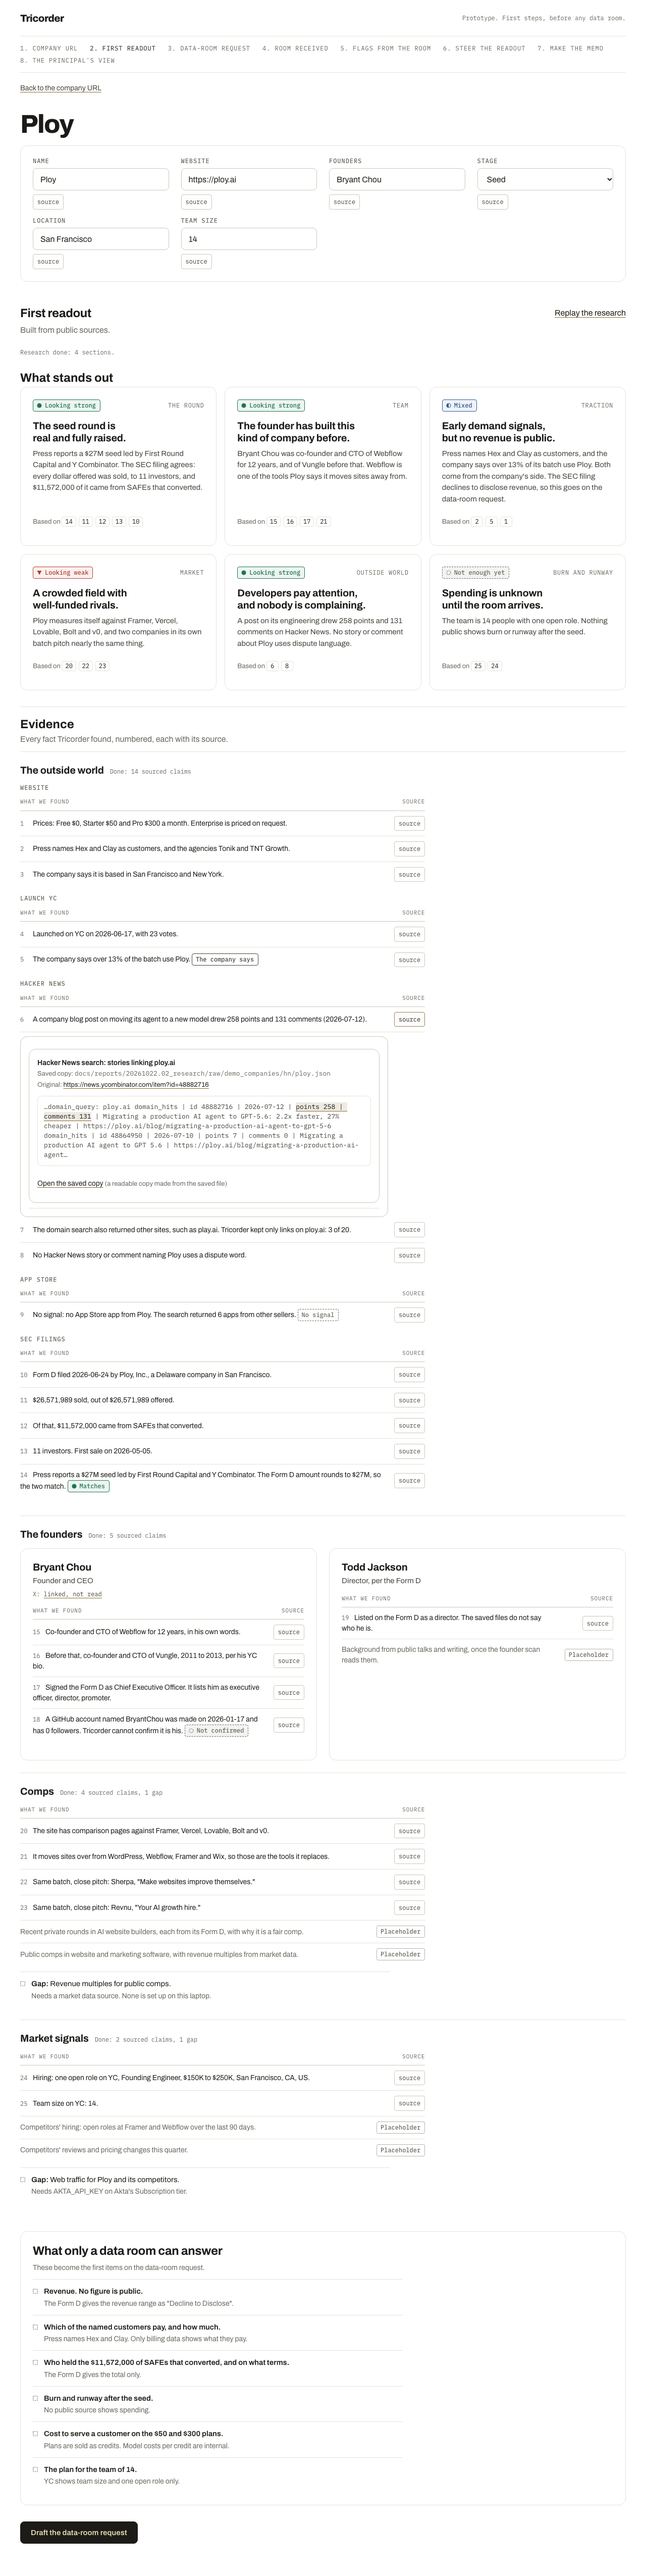
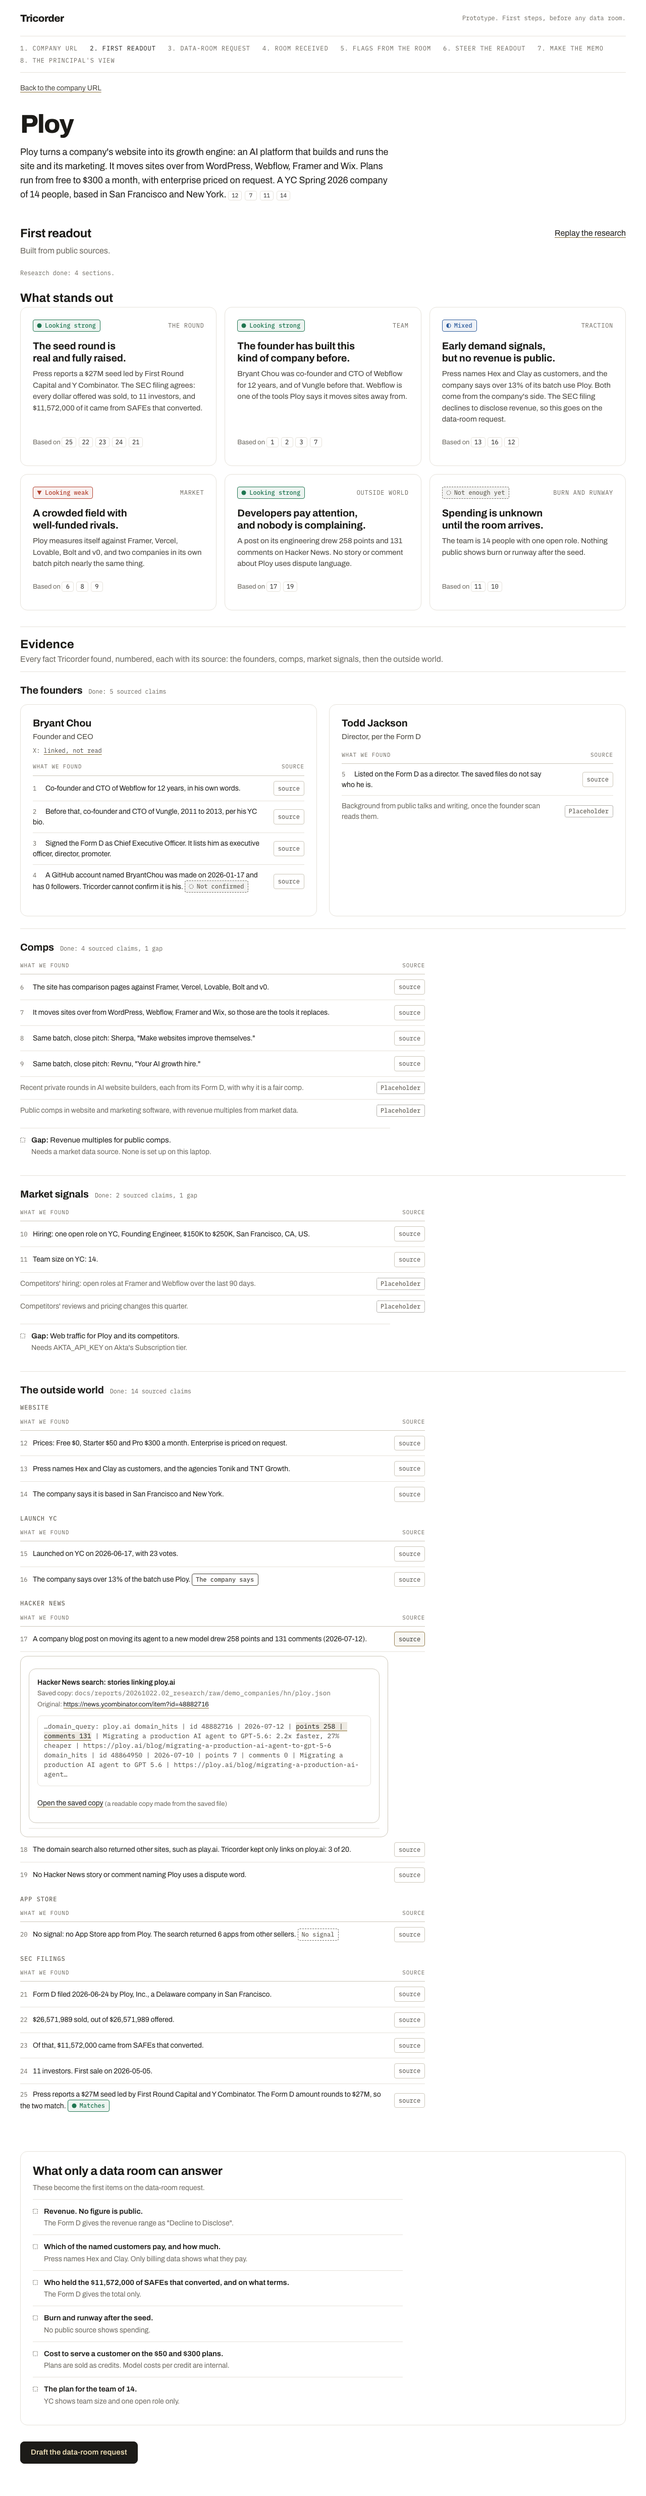
Prototype readout: about paragraph instead of setup fields; founders, comps, market signals, then the outside world

diff --git a/docs/features/20261024.02_first_steps_ui/prototype/app.js b/docs/features/20261024.02_first_steps_ui/prototype/app.js
@@ -182,6 +182,22 @@
     let n = 0;
     allClaims(R).forEach((c) => { if (!c.placeholder) c._n = ++n; });
   }
+  // Ken, 12:55 PM: what the company does, then the founders, then comps, then market signals.
+  const SECTION_ORDER = ["The founders", "Comps", "Market signals", "The outside world"];
+  function orderedResearch(R) {
+    if (!R) return R;
+    const rank = (s) => { const i = SECTION_ORDER.indexOf(s.title); return i < 0 ? 99 : i; };
+    return { ...R, sections: [...R.sections].sort((a, b) => rank(a) - rank(b)) };
+  }
+  function refNums(R, refs) {
+    const claims = allClaims(R).filter((c) => !c.placeholder);
+    return [...new Set(refs.map((r) => (claims.find((c) => c.text.includes(r)) || {})._n).filter(Boolean))];
+  }
+  function aboutHtml(R) {
+    const a = (window.TC_ABOUT || {})[R.slug];
+    if (!a) return "";
+    return `<p class="about">${esc(a.text)} <span class="based">${refNums(R, a.refs).map((n) => `<a class="ev-ref" href="#ev-${n}">${n}</a>`).join(" ")}</span></p>`;
+  }
   function insightsHtml(R) {
     const list = (window.TC_INSIGHTS || {})[R.slug] || [];
     if (!list.length) return "";
@@ -257,7 +273,7 @@
 
   function renderReadout() {
     chipN = 0;
-    const R = S.research;
+    const R = orderedResearch(S.research);
     const name = S.fields.name.value || "This company";
     let body;
     if (!R) {
@@ -268,7 +284,7 @@
       numberClaims(R);
       body = `<p class="status" id="overall" role="status"></p>
         ${insightsHtml(R)}
-        <div class="evidence-head"><h2>Evidence</h2><p class="note">Every fact Tricorder found, numbered, each with its source.</p></div>
+        <div class="evidence-head"><h2>Evidence</h2><p class="note">Every fact Tricorder found, numbered, each with its source: the founders, comps, market signals, then the outside world.</p></div>
         ${R.sections.map(sectionHtml).join("")}
         <section class="roomgaps wait" id="roomgaps" aria-label="What only a data room can answer">
           <h2>What only a data room can answer</h2>
@@ -278,7 +294,7 @@
     }
     app.innerHTML = `${header("readout", ["start", "the company URL"])}
       <h2 id="co-name" class="co-title">${esc(name)}</h2>
-      ${setupPanel()}
+      ${R ? aboutHtml(R) : setupPanel()}
       <div class="masthead readout-head"><h2 class="sub-title">First readout</h2>
         ${R ? '<button class="link tc-link-btn" id="replay" type="button">Replay the research</button>' : ""}</div>
       <p class="note">Built from public sources.</p>

diff --git a/docs/features/20261024.02_first_steps_ui/prototype/insights.js b/docs/features/20261024.02_first_steps_ui/prototype/insights.js
@@ -40,3 +40,11 @@ window.TC_INSIGHTS = {
       refs: ["Prices: Hobby $50", "Usage past the plan", "legacy tools it replaces", "AI SRE startups", "Same batch, overlapping product: Superlog"] },
   ],
 };
+
+// A short paragraph on what each company does, from the evidence. refs work as above.
+window.TC_ABOUT = {
+  ploy: { text: "Ploy turns a company's website into its growth engine: an AI platform that builds and runs the site and its marketing. It moves sites over from WordPress, Webflow, Framer and Wix. Plans run from free to $300 a month, with enterprise priced on request. A YC Spring 2026 company of 14 people, based in San Francisco and New York.",
+    refs: ["Prices: Free $0", "moves sites over from", "Team size on YC: 14", "based in San Francisco and New York"] },
+  sazabi: { text: "Sazabi is an AI-native observability platform for fast-moving engineering teams, pitched as Datadog for the AI era. It takes in a team's logs and investigates problems on its own. Plans run from $50 to $1,000 every 30 days, with usage billed on top. A YC Spring 2026 company of 10 people.",
+    refs: ["legacy tools it replaces", "onboarded 35 teams", "Prices: Hobby $50", "Team size on YC: 10"] },
+};

diff --git a/docs/features/20261024.02_first_steps_ui/prototype/app.css b/docs/features/20261024.02_first_steps_ui/prototype/app.css
@@ -154,3 +154,6 @@ code { font-size: 13px; overflow-wrap: anywhere; }
 .evidence-head { margin-top: var(--tc-space-6); border-top: var(--tc-hair) solid var(--tc-rule); padding-top: var(--tc-space-4); }
 .ev-n { display: inline-block; min-width: 22px; font-family: var(--tc-font-mono); font-size: 12px; color: var(--tc-ink-3); }
 tr.claim:target { background: var(--tc-hover, rgba(127,127,127,0.12)); }
+
+.about { font-size: 18px; line-height: 1.55; max-width: 72ch; color: var(--tc-ink); margin: var(--tc-space-2) 0 var(--tc-space-5); }
+.about .based .ev-ref { font-size: 11px; }

diff --git a/docs/features/20261024.02_first_steps_ui/prototype/check_prototype.py b/docs/features/20261024.02_first_steps_ui/prototype/check_prototype.py
@@ -33,7 +33,7 @@ with sync_playwright() as p:
     pg.click("button[type=submit]")
     pg.wait_for_selector("#co-name")
     check("company=ploy.ai" in pg.url, "address bar carries ?company=")
-    check(pg.locator("#f-name").input_value() == "Ploy", "setup field name is Ploy")
+    check(pg.locator("#co-name").inner_text() == "Ploy" and pg.locator(".about").count() == 1, "Ploy resolves, with its about paragraph and no setup fields")
     pg.wait_for_timeout(1500)
     early = pg.locator(".claim.wait").count()
     check(early > 0, f"claims arrive over time ({early} still waiting after 1.5s)")
@@ -78,7 +78,7 @@ with sync_playwright() as p:
     # Sazabi by YC URL in the address bar, all at once for the shot
     pg.goto(BASE + "?company=https://www.ycombinator.com/companies/sazabi&pace=0")
     pg.wait_for_function("document.getElementById('overall') && document.getElementById('overall').textContent.startsWith('Research done')")
-    check(pg.locator("#f-name").input_value() == "Sazabi", "address-bar YC URL resolves Sazabi")
+    check(pg.locator("#co-name").inner_text() == "Sazabi", "address-bar YC URL resolves Sazabi")
     pg.screenshot(path=str(SHOTS / "2b_first_readout_sazabi.png"), full_page=True)
 
     # A company in the list without cached research, and an unknown URL
